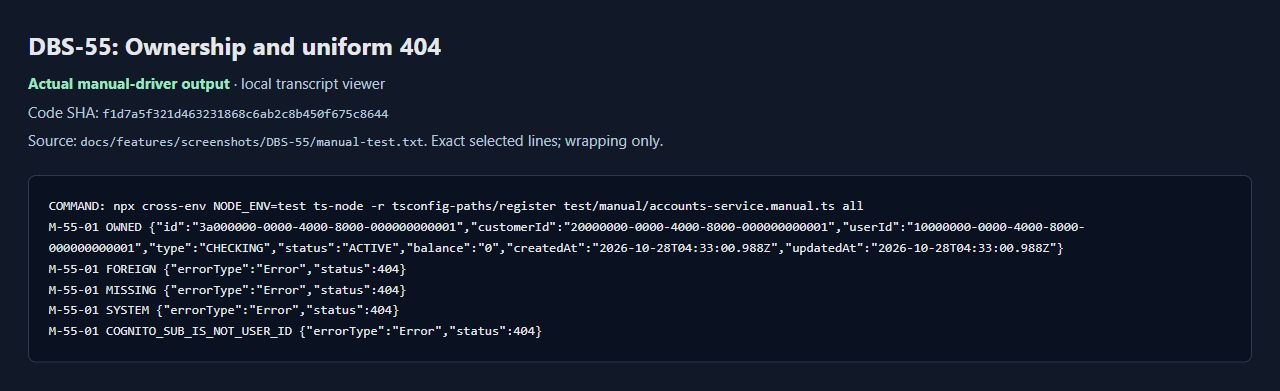
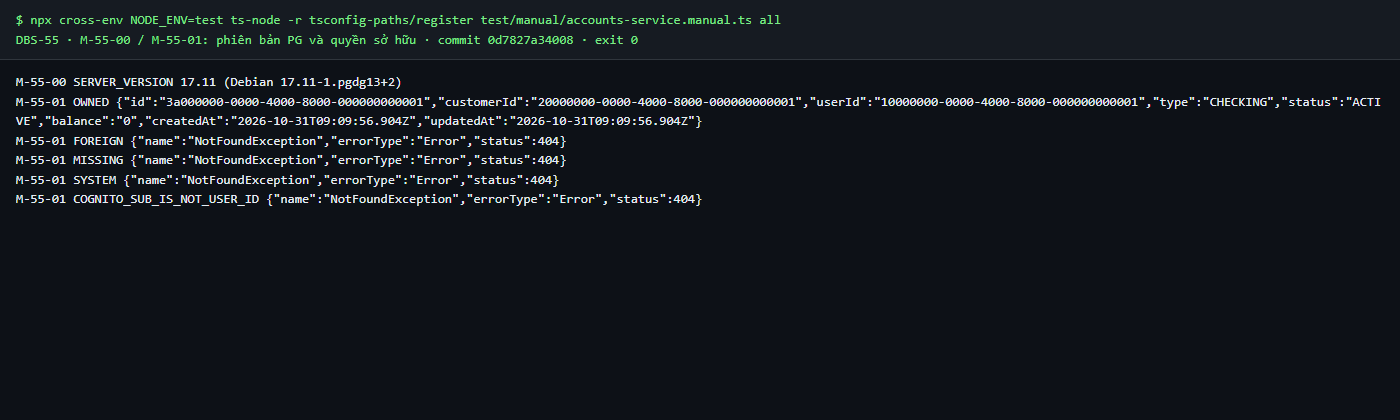
docs(accounts): record DBS-55 round-2 review fixes

diff --git a/docs/features/DBS-55-accounts-service.md b/docs/features/DBS-55-accounts-service.md
@@ -635,3 +635,87 @@ Thứ tự migration → service → controller không áp dụng: không có mi
 | Xung đột PR | `docs/BACKLOG.md` | S11 |
 
 **Quyết định ở G3 (vòng 2):** người dùng trả lời «duyet» ngày 2026-10-31. BL-121 cho bàn giao R7 (đổi thành BL-122 khi merge main, xem §R9 Lệch); push một lần sau G4.
+
+### R9. Kết quả vòng 2
+
+**Lệnh kiểm tra** trên HEAD `0d7827a` (sau merge `origin/main` `7238cec`), tại `backend/`. Output thô ở [verification.txt](screenshots/DBS-55/verification.txt), phần "Vòng 2".
+
+| Lệnh | Kết quả |
+|---|---|
+| `npm run lint:check` | exit 0 |
+| `npm run typecheck` | exit 0 |
+| `npm test -- --runInBand` | 40 suites, 566/566 đạt, 0 skipped |
+| `npm run test:db -- --runInBand` | 9 suites, 199/199 đạt (DB spec DBS-55: 45 tests) |
+| `npm run test:e2e -- --runInBand` | 8 suites, 57/57 đạt. Chạy trên container `postgres:17` tạm ở cổng 55432 vì cổng 5432 là PostgreSQL 18 native. TC-42-11 (BL-121) không tái hiện lỗi ở lượt này; chưa coi là đã sửa |
+| `npm run test:services -- --runInBand` | 1 suite, 2/2 đạt (suite mới từ `main`) |
+| `npm run build` | exit 0 |
+
+Không có `.skip`, `.only` hay `.todo` trong test của task.
+
+**Đối chiếu test case vòng 2** (`test/db/accounts-service.db-spec.ts`, trừ TC-55-14). Đỏ/xanh từng bước ở [tdd-red-green.txt](screenshots/DBS-55/tdd-red-green.txt), phần "Vòng 2".
+
+| ID | Test | Đạt? |
+|---|---|---|
+| TC-55-04a…d, 11a…c, 12a/b, 13a/b | đổi tên, nội dung giữ nguyên | đạt |
+| TC-55-06 | `preserves amounts above 2^53…` (assertion tham số có thêm txid, xem Lệch) | đạt |
+| TC-55-07 | `PostgreSQL refuses a negative customer balance` | đạt |
+| TC-55-09 | `rejects %s without leaving tentative balances` (4 scenario) | đạt |
+| TC-55-10, 10a, 10b, 10c | missing update; runner dùng lại; `[[], 1]`; kết quả sai dạng | đạt |
+| TC-55-14 | `src/modules/accounts/accounts.exports.spec.ts` | đạt; đỏ được chứng minh bằng biến thể `cwd` thừa kế (`ERR_MODULE_NOT_FOUND`) |
+| TC-55-16 | `a writer that waited for the lock stamps updated_at after…` | đạt; đỏ với `now()` (T1 sớm hơn T2 44 ms) |
+| TC-55-17 | `apply requires a lock taken on the same runner` | đạt |
+| TC-55-18 | `caps how many accounts one call can lock` | đạt |
+| TC-55-19 | `passes %s through unwrapped` (40P01, CHECK khác) | đạt |
+| TC-55-20a…d | lồng transaction; depth không đọc được; khóa ngoài cùng sống qua savepoint rollback | đạt; 20d xanh từ đầu vì chứng minh hành vi PostgreSQL |
+| TC-55-21 | `an empty lock in a new transaction keeps the old lock unusable` | đạt |
+
+24/24 ca vòng 2 đạt đủ độ sâu, 0 đơn giản hóa.
+
+**Test thủ công** trên commit `0d7827a` (commit cuối có đổi code, SHA ở dòng đầu [manual-test.txt](screenshots/DBS-55/manual-test.txt)), chạy đúng script R5, exit 0, container đã dọn:
+
+| Bước | Phản hồi thật (rút gọn) | Kết quả |
+|---|---|---|
+| M-55-00 | `17.11 (Debian 17.11-1.pgdg13+2)` | đạt |
+| M-55-01 | owner snapshot balance `"0"`; FOREIGN/MISSING/SYSTEM/COGNITO_SUB đều `NotFoundException` 404 | đạt |
+| M-55-02 | `highAvailable: true`, ids `[3a…, 3b…]`; crossed `completed: 2, retries: 0` | đạt |
+| M-55-03 | tentative `-300000`/`300000` và `∓9007199254740993`; observer và sau rollback đều `"0"` | đạt |
+| M-55-04 | `AccountBalanceNegativeError` + 23514 + `accounts_balance_non_negative`; `AccountBalanceOverflowError` + 22003; INACTIVE_MANAGER `Error`; HOSTILE/SPARSE/NUMBER `TypeError`; RECOVERED balance `"0"` | đạt |
+| M-55-05 | bốn invariant `true` | đạt |
+| M-55-07 | APPLY_WITHOUT_LOCK và LOCK_ON_OTHER_RUNNER `AccountNotLockedError`; NESTED `Error` (thông điệp "outermost transaction"); SEVENTEEN_IDS `TypeError` ("At most 16") | đạt |
+| M-55-08 | early tx (pid 94) chờ pid 91; `lateCommitStamp 09:09:57.231Z` < `earlyCommitStamp 09:09:57.235Z`; `earlyAfterLate: true` | đạt |
+| M-55-06 | `PENDING`, chờ DBS-60/61 và AuditService | **chưa chạy**, như vòng 1 |
+
+**Ảnh** (render từ `manual-test.txt` bằng Chrome headless, mỗi ảnh là một nhóm dòng của transcript, không sửa nội dung; thay bốn ảnh vòng 1):
+
+![M-55-00/01: phiên bản và quyền sở hữu](screenshots/DBS-55/01-ownership.png)
+
+![M-55-02: thứ tự khóa và hai transaction chéo](screenshots/DBS-55/02-lock-order.png)
+
+![M-55-03: tiền dạng chuỗi và rollback](screenshots/DBS-55/03-money-rollback.png)
+
+![M-55-04/05/06: lỗi có kiểu, phục hồi, invariant](screenshots/DBS-55/04-rejections-invariants.png)
+
+![M-55-07: bắt buộc khóa, cấp ngoài cùng, giới hạn id](screenshots/DBS-55/05-lock-required.png)
+
+![M-55-08: updated_at theo thứ tự commit](screenshots/DBS-55/06-updated-at-order.png)
+
+**Phạm vi so với R8** (`git diff --name-only a9ed90a..HEAD`, trừ file đến từ `main`): `accounts.errors.ts` (mới), `accounts.service.ts`, `index.ts`, `README.md`, `accounts.exports.spec.ts`, `modules/index.ts`, `accounts-service.db-spec.ts`, `accounts-service-probe.ts`, `accounts-service.manual.ts`, `docs/BACKLOG.md`, feature doc, `docs/features/README.md`, `screenshots/DBS-55/` (6 ảnh, `manual-test.txt`, `verification.txt`, `tdd-red-green.txt`, 6 file domain review). Khớp R3 và R8; không có file lạ.
+
+**Lệch so với kế hoạch:**
+
+| Lệch | Lý do | Duyệt |
+|---|---|---|
+| TC-55-06 đổi assertion (R8 ghi "giữ nguyên") | UPDATE có thêm tham số txid theo R3 | gate phụ, người dùng trả lời «duyeejt» ngày 2026-10-31 |
+| Dòng bàn giao R7 là **BL-122**, không phải BL-121 | `main` đã dùng BL-054/056 cho DBS-40. Khi merge: dòng JWKS của DBS-55 gộp vào BL-112 (cùng hai test, thêm nguồn DBS-55); dòng timeout logging đổi thành BL-121; bàn giao R7 thành BL-122. Nội dung không đổi | chỉ đổi ID, không đổi phạm vi; nêu ở G4 |
+| Lint đỏ sau commit S2 (prettier) | quên chạy lint trước commit; sửa ở commit `style(accounts)` kế tiếp | không đổi phạm vi |
+| Ảnh vòng 2 render bằng Chrome headless thay vì CUA | công cụ khác, cùng nguồn transcript thật | nêu ở G4 |
+
+**Bàn giao:** BL-122 (R7, Dev DBS-60/61). Giữ mở: BL-057 (Dev review và merge), BL-112, BL-121, BL-002/003/008/015/017/019. Không có dòng backlog nào được vòng 2 giải quyết.
+
+### R10. Tài liệu đã cập nhật (vòng 2)
+
+- `backend/src/modules/accounts/README.md`: hợp đồng mới (khóa bắt buộc, cấp ngoài cùng, giới hạn id, ba lớp lỗi, `clock_timestamp()`), mục "Hợp đồng với ledger (BL-122)", sửa "trả404".
+- `backend/src/modules/index.ts`: comment `sharedModules`.
+- `docs/BACKLOG.md`: thêm BL-122; BL-112 thêm nguồn DBS-55; dòng DBS-55 cũ BL-054 → gộp BL-112, BL-056 → BL-121; BL-057 cập nhật.
+- `docs/features/README.md`: mô tả dòng DBS-55.
+- Feature doc: R1–R10; `screenshots/DBS-55/`: 6 ảnh, transcript, verification, TDD, 6 domain review.

diff --git a/backend/src/modules/accounts/README.md b/backend/src/modules/accounts/README.md
@@ -20,14 +20,20 @@ Hồ sơ khách hàng, tài khoản, trạng thái khóa.
 
 ## Export công khai (`index.ts`)
 
-Import qua `@modules/accounts`: `AccountsModule`, `AccountsService`, type `Account` và `LockedAccount`.
+Import qua `@modules/accounts`: `AccountsModule`, `AccountsService`, type `Account` và `LockedAccount`, ba lớp lỗi `AccountNotLockedError`, `AccountBalanceNegativeError`, `AccountBalanceOverflowError`.
 
 | Hàm | Contract service hiện có |
 |---|---|
-| `lockForUpdate(ids: string[], manager: EntityManager): Promise<LockedAccount[]>` | Manager phải có QueryRunner còn hoạt động trong transaction. SQL lấy khóa account theo id tăng dần; duplicate được bỏ, empty trả `[]`, id thiếu chỉ bị loại khỏi snapshot. LOCKED/SYSTEM vẫn được trả để caller quyết định guard |
-| `applyBalanceChange(accountId: string, delta: bigint, manager: EntityManager): Promise<void>` | Cộng số dư bằng SQL trong transaction người gọi; nhận bigint, không tự mở/commit/retry. Không thấy account trả404; PostgreSQL CHECK từ chối khách âm, signed bigint từ chối overflow |
-| `getOwnedAccount(accountId: string, userId: string): Promise<Account>` | `userId` là internal `users.id`, không phải Cognito sub. Đọc committed state từ PostgreSQL. Missing/foreign/SYSTEM/UUID sai cùng trả404; không tạo audit DENIED thay caller |
+| `lockForUpdate(ids: string[], manager: EntityManager): Promise<LockedAccount[]>` | Manager phải có QueryRunner còn hoạt động, ở **cấp transaction ngoài cùng** (không trong `manager.transaction` lồng). SQL lấy khóa account theo id tăng dần; duplicate được bỏ, empty trả `[]`, id thiếu chỉ bị loại khỏi snapshot. Tối đa 16 id khác nhau và 256 phần tử, vượt thì `TypeError` trước SQL. LOCKED/SYSTEM vẫn được trả để caller quyết định guard |
+| `applyBalanceChange(accountId: string, delta: bigint, manager: EntityManager): Promise<void>` | Cộng số dư bằng SQL trong transaction người gọi, `updated_at = clock_timestamp()`; nhận bigint, không tự mở/commit/retry. Account phải đã có trong kết quả `lockForUpdate` của **cùng QueryRunner, cùng transaction**, nếu không thì `AccountNotLockedError` (kể cả id không tồn tại). Khách xuống âm → `AccountBalanceNegativeError`; tràn signed bigint → `AccountBalanceOverflowError`; lỗi gốc nằm ở `cause`. Lỗi DB khác (deadlock, timeout) ném nguyên |
+| `getOwnedAccount(accountId: string, userId: string): Promise<Account>` | `userId` là internal `users.id`, không phải Cognito sub. Đọc committed state từ PostgreSQL. Missing/foreign/SYSTEM/UUID sai cùng trả 404; không tạo audit DENIED thay caller |
 
 Snapshot dùng camelCase, `balance` là chuỗi chính xác, thời gian là Date. Không đổi tiền sang Number hoặc cache Redis. Các truy vấn mutation dùng manager đã truyền vào; `startTransaction()` phải chạy trước, raw SQL BEGIN không đáp ứng trạng thái QueryRunner. Invalid UUID/array (kể cả sparse array) hoặc delta không-bigint bị chặn trước SQL. Không bắt lỗi SQL để tiếp tục transaction đã bị abort.
+
+### Hợp đồng với ledger (BL-122)
+
+- Gọi `lockForUpdate` rồi `applyBalanceChange` trên **cùng `manager`** của một `TransactionService.run`. Không bọc chúng trong `manager.transaction` lồng. Không để `SAVEPOINT` viết tay nào đang mở khi lock, và không `ROLLBACK TO SAVEPOINT` giữa lock và apply: `ROLLBACK TO SAVEPOINT` nhả khóa hàng mà service không phát hiện được với savepoint viết tay.
+- So snapshot với các id đã yêu cầu **trước** khi apply. Chuyển tới đích không tồn tại và nạp vào tài khoản không tồn tại là `REJECTED` / 422 `ACCOUNT_NOT_ACTIVE` (`to_account_id` NULL). Nguồn không thuộc caller bị chặn trước transaction (404, audit DENIED trong transaction riêng). Thiếu `funding` là lỗi cài đặt (500).
+- Guard quyết định REJECTED (số dư, trạng thái, hạn mức) **trước** UPDATE. Ba lớp lỗi ở trên nghĩa là guard hoặc giao thức của caller có bug: chúng phải ra 500, không map sang 422, vì sau khi PostgreSQL từ chối UPDATE transaction đã hủy, không còn ghi được `transfers` REJECTED, audit hay response idempotency (BR-07).
 
 Đây là primitive cho ledger; module chưa thêm HTTP controller, onboarding, mở/khóa tài khoản, guard chuyển tiền hoặc bút toán. Test tiền gọi service thật trên DB tạm rồi rollback; không SQL seed tiền/bút toán. Chứng minh primitive và giới hạn E2E/audit nằm trong [DBS-55](../../../../docs/features/DBS-55-accounts-service.md); các API nghiệp vụ chờ task riêng.

diff --git a/docs/features/README.md b/docs/features/README.md
@@ -43,7 +43,7 @@ Lỗi không có mã trên board dùng tên `BUG-YYYYMMDD-<slug>.md`.
 | [DBS-31](DBS-31-terraform-bootstrap-s3-backend.md) | Terraform bootstrap: S3 state có versioning, mã hóa và khóa state | #5 Platform & Ops | Implemented |
 | [DBS-33](DBS-33-terraform-vpc-ecr.md) | Terraform: VPC 2 AZ, gateway endpoint S3 và ECR `dbs-api` (stack `envs/dev/base`) | #5 Platform & Ops | Implemented |
 | [DBS-50](DBS-50-jwt-auth-guard-jwks.md) | Identity: JwtAuthGuard xác minh JWT bằng JWKS có cache, guard toàn cục mặc định | Dev | Implemented |
-| [DBS-55](DBS-55-accounts-service.md) | AccountsService: khóa theo id, đổi số dư trong caller transaction và ownership404 | Dev | Implemented; G4 đã duyệt, [Draft PR #33](https://github.com/Lawliet119/digital-banking-simulator/pull/33); CI theo Checks, chờ Dev review/merge; TC 15/15 và manual 5/6 đạt, M-55-06 chờ ledger/audit; E2E local còn lỗi logging timeout |
+| [DBS-55](DBS-55-accounts-service.md) | AccountsService: khóa theo id, đổi số dư trong caller transaction và ownership 404; vòng 2 (2026-10-31) bắt buộc đã khóa ở cấp ngoài cùng, lỗi có kiểu, `clock_timestamp()` | Dev | Implemented; G4 đã duyệt, [Draft PR #33](https://github.com/Lawliet119/digital-banking-simulator/pull/33); CI theo Checks, chờ Dev review/merge; TC 15/15 và manual 5/6 đạt, M-55-06 chờ ledger/audit; E2E local còn lỗi logging timeout |
 | [DBS-34](DBS-34-terraform-ecs-alb.md) | Terraform: ECS Fargate cluster, service api và ALB HTTPS (nhóm xóa hằng ngày) | #5 Platform & Ops | Implemented |
 | [DBS-54](DBS-54-terraform-cognito.md) | Terraform: Cognito user pool, 4 nhóm, app client và script seed tài khoản nhân viên demo | #5 Platform & Ops | Implemented |
 | [DBS-38](DBS-38-auto-deploy-ecs.md) | Deploy tự động: push main → image mới → ECS → /health/ready (role OIDC riêng, `deploy.sh`) | #5 Platform & Ops | Implemented |
